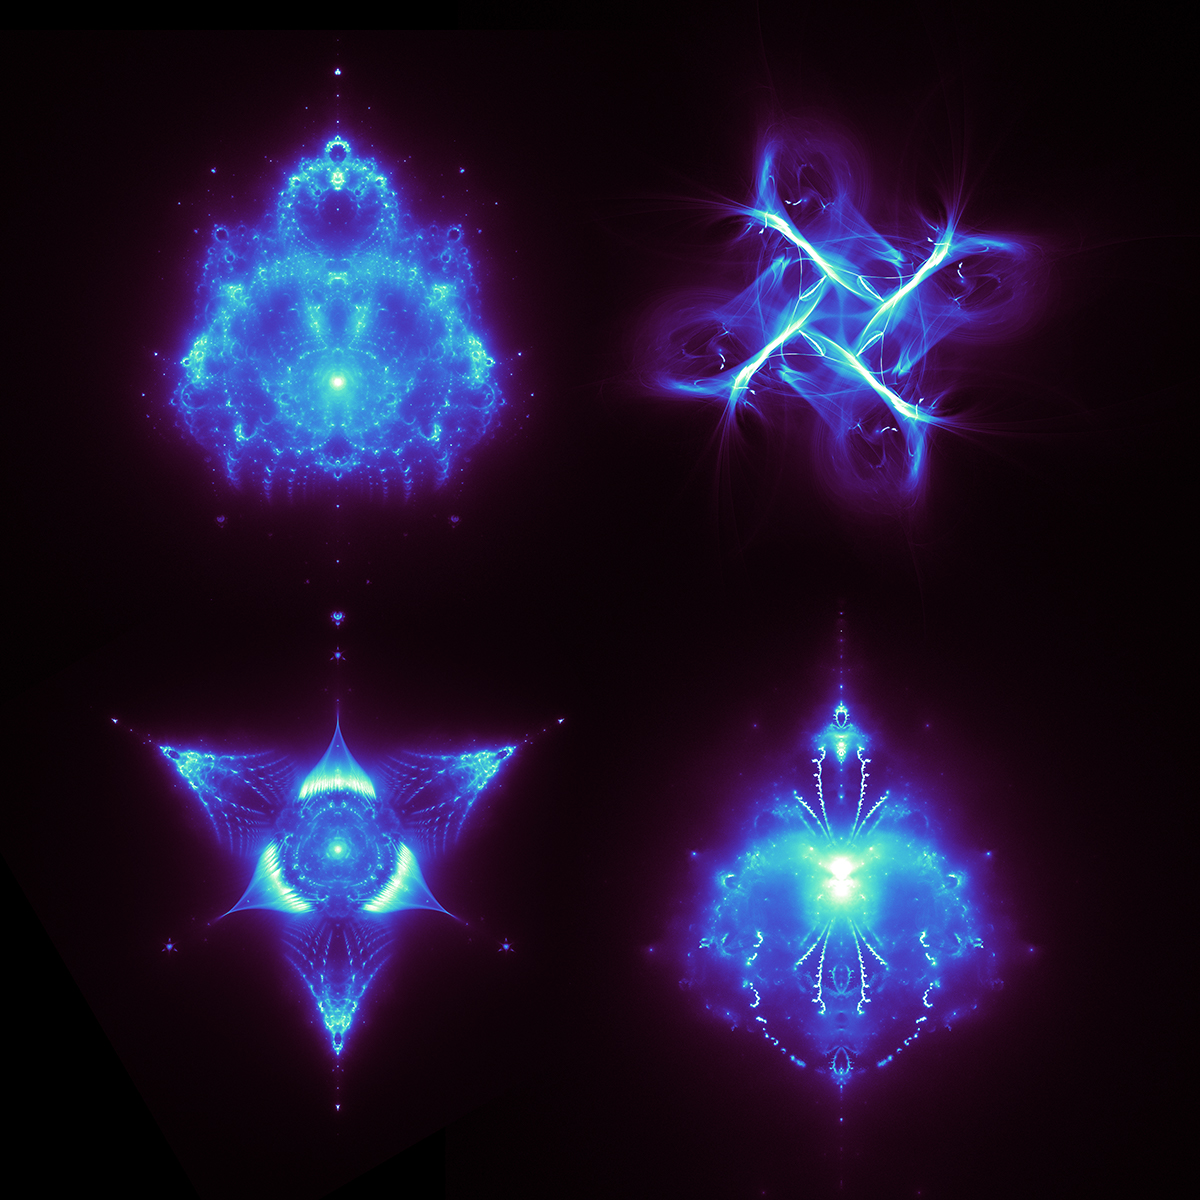
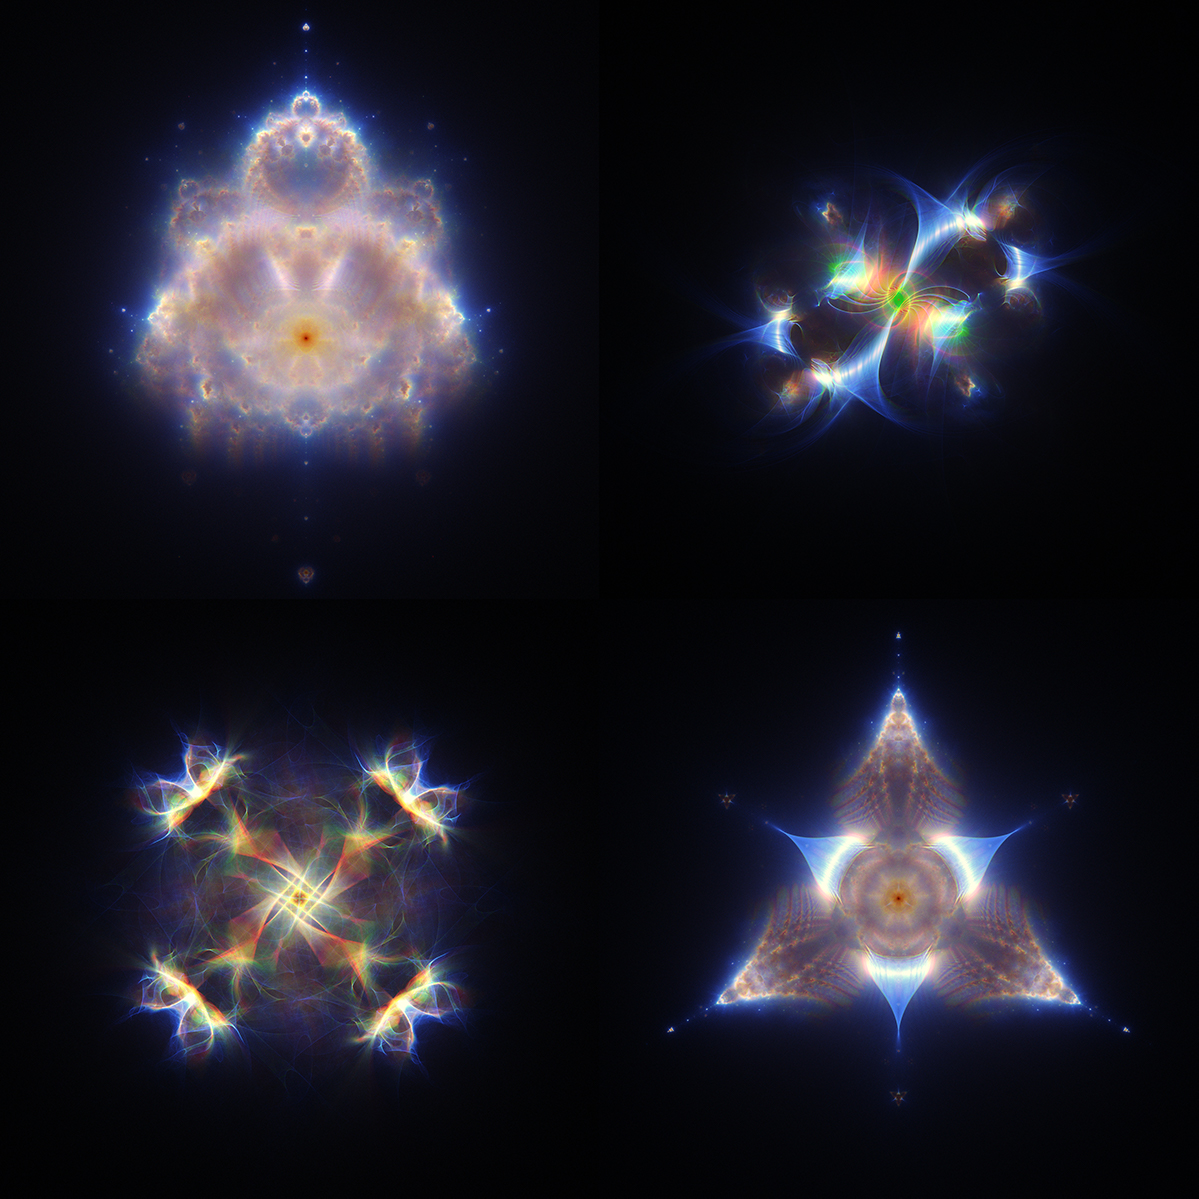
update image; better default color parameters

diff --git a/src/index.tsx b/src/index.tsx
@@ -84,7 +84,7 @@ class ColorMapView extends React.PureComponent<{ colormap: number[][] }, {}> {
     }
 }
 
-class FractalRenderer extends React.Component<{ fractal: Fractal, options: BuddhabrotRendererOptions, exposure: number, colormap: number[][][] }, { error?: string }> {
+class FractalRenderer extends React.Component<{ fractal: Fractal, options: BuddhabrotRendererOptions, exposure: number, spectrumScaler: number, colormap: number[][][] }, { error?: string }> {
     refs: {
         canvas: HTMLCanvasElement;
     };
@@ -99,7 +99,8 @@ class FractalRenderer extends React.Component<{ fractal: Fractal, options: Buddh
         try {
             this.renderer = new BuddhabrotRenderer(this.refs.canvas, this.props.fractal, this.props.options);
             this.renderer.setColormap(this.props.colormap);
-            this.renderer.scaler = Math.pow(2, -this.props.exposure);
+            this.renderer.exposure = this.props.exposure;
+            this.renderer.spectrumScaler = this.props.spectrumScaler;
         } catch (e) {
             this.setState({
                 error: e.message
@@ -167,10 +168,16 @@ class FractalRenderer extends React.Component<{ fractal: Fractal, options: Buddh
         this.renderer.readPixels(buffer);
     }
 
-    public setScale(value: number) {
+    public setExposure(value: number) {
         if (!this.renderer) return;
-        this.renderer.scaler = value;
+        this.renderer.exposure = value;
     }
+
+    public setSpectrumScaler(value: number) {
+        if (!this.renderer) return;
+        this.renderer.spectrumScaler = value;
+    }
+
     public setColormap(colormap: number[][][]) {
         if (!this.renderer) return;
         this.renderer.setColormap(colormap);
@@ -204,7 +211,8 @@ interface FractalApplicationState {
     colormap3: string;
     backColor: string;
     rendererProfile: string;
-    rendererScale: number;
+    rendererExposure: number;
+    rendererSpectrumScaler: number;
 
     animation: AnimationKeyFrame[];
     isPlaying: boolean;
@@ -227,7 +235,8 @@ class FractalApplication extends React.Component<{}, FractalApplicationState> {
             colormap3: colormaps[2].name,
             backColor: "#000000",
             rendererProfile: defaultProfile,
-            rendererScale: 0,
+            rendererExposure: 0,
+            rendererSpectrumScaler: 1,
             animation: require("../data/animations.json"),
             isPlaying: false
         };
@@ -324,7 +333,8 @@ class FractalApplication extends React.Component<{}, FractalApplicationState> {
                         key={this.state.rendererProfile}
                         fractal={this.state.fractal}
                         options={BuddhabrotRenderer.GetProfileOptions(this.state.rendererProfile)}
-                        exposure={this.state.rendererScale}
+                        exposure={this.state.rendererExposure}
+                        spectrumScaler={this.state.rendererSpectrumScaler}
                         colormap={this.getCurrentColormap()}
                     />
                 </div>
@@ -402,12 +412,28 @@ class FractalApplication extends React.Component<{}, FractalApplicationState> {
                             min={-3}
                             max={3}
                             step={0.01}
-                            value={this.state.rendererScale}
+                            value={this.state.rendererExposure}
                             onChange={(e: number) => {
                                 this.setState({
-                                    rendererScale: e
+                                    rendererExposure: e
                                 });
-                                this.refs.renderer.setScale(Math.pow(2, -e));
+                                this.refs.renderer.setExposure(e);
+                                this.refs.renderer.refresh();
+                            }}
+                        />
+                    </div>
+                    <div className="el-widget">
+                        <SliderRow
+                            label="Spectrum"
+                            min={0}
+                            max={5}
+                            step={0.01}
+                            value={this.state.rendererSpectrumScaler}
+                            onChange={(e: number) => {
+                                this.setState({
+                                    rendererSpectrumScaler: e
+                                });
+                                this.refs.renderer.setSpectrumScaler(e);
                                 this.refs.renderer.refresh();
                             }}
                         />

diff --git a/src/renderer.ts b/src/renderer.ts
@@ -175,6 +175,8 @@ export class ShaderBuilder {
             out vec3 o_position;
             out vec3 vo_accum;
 
+            uniform float u_spectrum_scaler;
+
             ${this.fractal.getShaderFunction("f")}
 
             void main () {
@@ -183,7 +185,7 @@ export class ShaderBuilder {
                 for(int i = 0; i < 256; i++) {
                     z = f(z, a_position.xy);
                     if(z.x * z.x + z.y * z.y > 16.0) {
-                        o_position = vec3(0, 0, float(i) / 256.0);
+                        o_position = vec3(0, 0, float(i) / 160.0 * u_spectrum_scaler);
                         break;
                     }
                 }
@@ -439,7 +441,9 @@ export class BuddhabrotRenderer {
     private renderIterations: number;
     private vbo: WebGLBuffer;
 
-    public scaler = 1;
+    public exposure = 1;
+    public spectrumScaler = 1;
+
     public static GetProfileOptions(name: string): BuddhabrotRendererOptions {
         for (let p of profiles) {
             if (p.name == name) return p.options;
@@ -567,6 +571,8 @@ export class BuddhabrotRenderer {
         gl.useProgram(this.programRenderEscape);
         this.fractal.setShaderUniforms(gl, this.programRenderEscape);
 
+        gl.uniform1f(gl.getUniformLocation(this.programRenderEscape, "u_spectrum_scaler"), this.spectrumScaler);
+
         gl.bindBuffer(gl.ARRAY_BUFFER, cBuffer);
         gl.enableVertexAttribArray(gl.getAttribLocation(this.programRenderEscape, "a_position"));
         gl.vertexAttribPointer(gl.getAttribLocation(this.programRenderEscape, "a_position"), 3, gl.FLOAT, false, 12, 0);
@@ -603,7 +609,7 @@ export class BuddhabrotRenderer {
             gl.vertexAttribPointer(gl.getAttribLocation(this.programRender, "i_position"), 3, gl.FLOAT, false, 12, 0);
 
             gl.beginTransformFeedback(gl.POINTS);
-            if (i < 1) {
+            if (i < 4) {
                 gl.enable(gl.RASTERIZER_DISCARD);
             }
             gl.drawArrays(gl.POINTS, 0, samplesCount);
@@ -639,7 +645,7 @@ export class BuddhabrotRenderer {
         gl.uniform1i(gl.getUniformLocation(this.programColor, "texture"), 0);
         gl.uniform1i(gl.getUniformLocation(this.programColor, "textureColor"), 1);
         gl.uniform1f(gl.getUniformLocation(this.programColor, "colormapSize"), this.colormapSize);
-        gl.uniform1f(gl.getUniformLocation(this.programColor, "colormapScaler"), this.scaler * (this.options.renderIterations - 1) / 6000 * accumulateScaler / this.sampler.getScaler());
+        gl.uniform1f(gl.getUniformLocation(this.programColor, "colormapScaler"), Math.pow(2, -this.exposure) * (this.options.renderIterations - 4) / 20000 * accumulateScaler / this.sampler.getScaler());
 
         gl.activeTexture(gl.TEXTURE1);
         gl.bindTexture(gl.TEXTURE_2D, this.textureColor);
